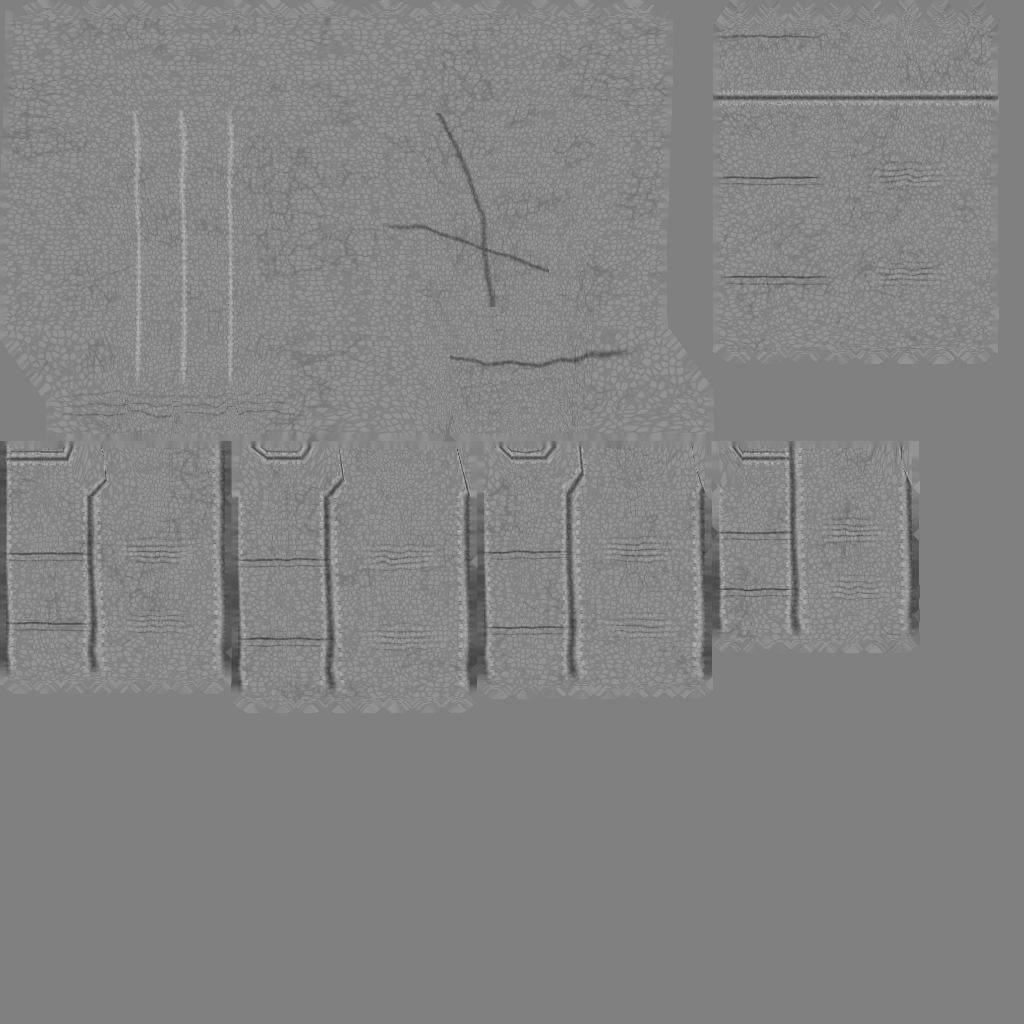
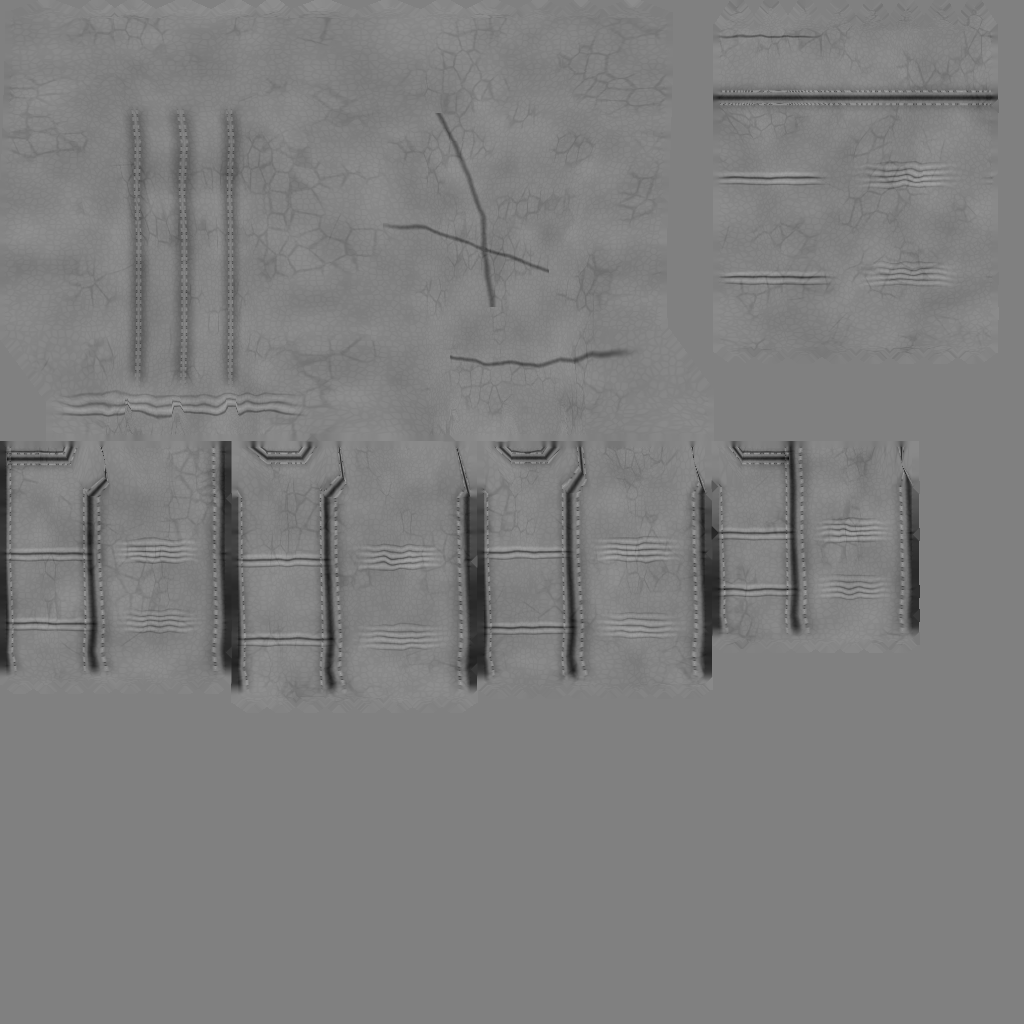
Glove leather: relief to the bracers' level: _glove_height made a mipmapped normal map at load (one tap, vr_glove_relief), deeper stitches, quilted seams, knuckle/joint/palm creases, softer grain; GLOVES.md, ROUND22 note

diff --git a/Misc/quakevr/make_glove_paint.py b/Misc/quakevr/make_glove_paint.py
@@ -30,6 +30,7 @@ PROGS = HERE.parent.parent / 'quakevr/progs'
 SCALE = 2  # texels to the skin's (512: 1.5 a mm) -> 3 a mm
 OUT = PROGS / 'hand_rig_00_00_glove.png'
 OUT_H = PROGS / 'hand_rig_00_00_glove_height.png'
+HEIGHT_MM = 2.5  # the height map's full range (0..255), mm: vr_render.cpp gloveHeightRangeMm (it makes it a normal map)
 
 
 # ---- noise (hashed lattices, deterministic) -------------------------------------------------------------------------
@@ -147,17 +148,20 @@ def sew(pt, d, run, w, groove=True):
     if groove:
         g = band(d, SEAM * 1.3) * w
         pt.shade *= 1 - 0.45 * g
-        pt.height -= 0.35 * g
+        pt.height -= 0.5 * g
         lip = (band(np.abs(d) - SEAM * 1.6, SEAM * 0.9)) * w  # the leather rolled up either side, rubbed
-        pt.height += 0.12 * lip
+        pt.height += 0.2 * lip
         pt.wear = np.maximum(pt.wear, 0.22 * lip)
+        # the panels either side pulled down into the seam over a few mm: padded between the seams, as the bracers'
+        # quilted rows (normalbody.py stitch_row)
+        pt.height -= 0.35 * band(d, 0.45) * w
     th, holes = stitches(pt, d, run, w)
     pt.shade *= 1 - 0.35 * holes
-    pt.height -= 0.12 * holes
-    pt.shade = pt.shade * (1 - th) + 1.45 * th
+    pt.height -= 0.3 * holes
+    pt.shade = pt.shade * (1 - th) + 1.35 * th
     pt.tint = pt.tint * (1 - th[:, None]) + np.array([1.03, 1.0, 0.94]) * th[:, None]
     pt.wear = np.maximum(pt.wear, 0.55 * th)
-    pt.height += 0.22 * th
+    pt.height += 0.45 * th
 
 
 def scuffed(p, patch, base, extra):
@@ -194,18 +198,19 @@ def finger_joints(rig, name, p, n, pt, seed):
         wr = sum(band(dd - c, 0.035) * h for c, h in ((-0.42, 0.5), (-0.24, 0.8), (-0.08, 1.0), (0.08, 0.9), (0.24, 0.6)))
         wr *= back * smooth(1.0, 0.35, np.abs(lateral)) * s
         pt.shade *= 1 - 0.32 * wr
-        pt.height -= 0.22 * wr
-        ridges = sum(band(dd - c, 0.06) for c in (-0.33, -0.16, 0.0, 0.16)) * back * near * s
+        pt.height -= 0.4 * wr
+        ridges = sum(band(dd - c, 0.07) for c in (-0.33, -0.16, 0.0, 0.16)) * back * near * s
         pt.wear = np.maximum(pt.wear, 0.3 * ridges * patch)
-        pt.height += 0.08 * ridges
-        # the palm side's fold: deep, dark, a second fainter one beside it
+        pt.height += 0.25 * ridges  # the leather bunched up between them
+        # the palm side's fold: deep, dark, a second fainter one beside it, the leather puffed either side
         fold = (band(a + 0.02 + 0.03 * wob, 0.05) + 0.5 * band(a - 0.16 + 0.03 * wob, 0.035)) * front
         pt.shade *= 1 - 0.35 * fold
-        pt.height -= 0.35 * fold
+        pt.height -= 0.55 * fold
+        pt.height += 0.2 * (band(a + 0.12 + 0.03 * wob, 0.09) + band(a - 0.08 + 0.03 * wob, 0.07)) * front
     # the palm side's fold at the finger's root (the palm's crease under it)
     root = band(along - 0.12 + 0.04 * wob, 0.05) * (seg == 0) * front
     pt.shade *= 1 - 0.35 * root
-    pt.height -= 0.25 * root
+    pt.height -= 0.45 * root
     # the tip worn all round, more at its very end
     tipness = np.where(seg == 2, smooth(0.45 * lengths[2], 1.0 * lengths[2], along), 0.0)
     pt.wear = np.maximum(pt.wear, tipness * (0.25 + 0.4 * smooth(0.3, 0.8, patch)))
@@ -236,22 +241,25 @@ def palm_marks(rig, p, n, pt, seed):
         pt.shade *= 1 - 0.12 * np.exp(-((d - 0.95) / 0.3) ** 2) * back
     # the leather creased across the back behind the knuckles, as a fist pulls it
     dk = x - knuckles + 0.45 + 0.08 * wob
-    cr = sum(band(dk + c, 0.04) * h for c, h in ((0.0, 1.0), (0.22, 0.7), (0.45, 0.45))) * back
+    cr = sum(band(dk + c, 0.05) * h for c, h in ((0.0, 1.0), (0.22, 0.7), (0.45, 0.45))) * back
     pt.shade *= 1 - 0.25 * cr
-    pt.height -= 0.18 * cr
-    # three stitched points down the back, between the tendons, from the wrist to short of the knuckles
+    pt.height -= 0.4 * cr
+    # the leather bunched up between those creases
+    pt.height += 0.18 * sum(band(dk + c, 0.08) * h for c, h in ((0.11, 1.0), (0.33, 0.6))) * back
+    # three stitched points down the back, between the tendons, from the wrist to short of the knuckles: a raised cord
+    # in a channel, the leather between them padded (as the bracers' quilted rows)
     for uc in (0.27, 0.5, 0.74):
         d = (u - uc) * width
         span = smooth(-3.6, -3.1, x) * smooth(knuckles - 1.0, knuckles - 1.6, x) * back
         ridge = band(d, 0.09) * span
-        pt.height += 0.2 * ridge
+        pt.height += 0.3 * ridge - 0.35 * band(d, 0.5) * span
         pt.shade *= 1 + 0.05 * ridge
         pt.wear = np.maximum(pt.wear, 0.15 * ridge)
         th, holes = stitches(pt, d, x, span, offset=0.075, step=0.2, slant=0.0)
         pt.shade *= 1 - 0.3 * holes
-        pt.shade = pt.shade * (1 - th) + 1.3 * th
+        pt.shade = pt.shade * (1 - th) + 1.2 * th
         pt.wear = np.maximum(pt.wear, 0.4 * th)
-        pt.height += 0.15 * th
+        pt.height += 0.35 * th - 0.25 * holes
     # the palm's folds (as the skin's: the heart line under the fingers, the head line across, the life line round
     # the thumb's ball), the wrist's
     heart = knuckles - 1.7 - 0.5 * np.clip(u - 0.1, 0, 1)
@@ -261,7 +269,7 @@ def palm_marks(rig, p, n, pt, seed):
              + 0.9 * band(u - life_u + 0.01 * wob, 0.025) * (x < 2.0) * (x > -3.3)) * front
     folds = np.clip(folds, 0, 1)
     pt.shade *= 1 - 0.3 * folds
-    pt.height -= 0.3 * folds
+    pt.height -= 0.5 * folds
     # the grip: the pads under the fingers and the heel rubbed (a little paler, grime in between)
     pads = (np.exp(-((x - knuckles + 0.9) / 0.6) ** 2) + np.exp(-((x + 2.6) / 1.0) ** 2) * 0.8) * front
     pt.wear = np.maximum(pt.wear, 0.3 * pads * smooth(0.3, 0.8, patch))
@@ -275,12 +283,13 @@ def grain(p, pt):
     peb = smooth(0.0, 0.4, e)  # 0 in a crevice, 1 on a pebble's rounded top
     pt.shade *= 0.85 + 0.15 * peb
     pt.shade *= 0.97 + 0.06 * tone
-    pt.height += 0.12 * peb
+    pt.height += 0.055 * peb
     e2, _ = worley(p * np.array([1.0, 1.0, 1.6]), 0.55, 23)
     net = 1 - smooth(0.0, 0.18, e2 + 0.04 * value_noise(p, 0.12, 27))
     net *= smooth(-0.1, 0.5, value_noise(p, 0.8, 29))  # in places only
     pt.shade *= 1 - 0.12 * net
-    pt.height -= 0.08 * net
+    pt.height -= 0.12 * net
+    pt.height += 0.12 * fbm(p, 0.9, 43, 2)  # the hide's own soft unevenness
     mot = fbm(p, 1.2, 31, 3)
     pt.shade *= 1 + 0.09 * mot
     pt.tint *= (1 + np.outer(fbm(p, 2.0, 37, 2), [0.03, 0.0, -0.04]))
@@ -376,7 +385,7 @@ def main():
     rgb = np.stack([spread(rgb[..., c], covered, 6) for c in range(3)], -1)
     rgb[~covered & ~(spread(covered * 1.0, covered, 6) > 0)] = 0.5
     wear = np.clip(spread(wear, covered, 6), 0, 1)
-    h = np.clip(0.5 + 0.6 * spread(height, covered, 6), 0, 1)
+    h = np.clip(0.5 + spread(height, covered, 6) / HEIGHT_MM, 0, 1)
     pad = spread(covered * 1.0, covered, 6) > 0
     wear[~pad] = 0
     h[~pad] = 0.5

diff --git a/Quake/vr/vr_render.cpp b/Quake/vr/vr_render.cpp
@@ -458,7 +458,9 @@ extern "C" void VR_AliasInstance(const entity_t* e, const float matrix[16], cons
         (void)view::gloveLook(e, out->glove, out->glovecuff);
         if(out->glove[3] > 0.f) // its painted leather (vr_glove_paint): Glove.w's 4s
         {
-            out->glove[3] += 4.f * static_cast<float>(render::glovePaintFlags(e));
+            const int paint = render::glovePaintFlags(e);
+            out->glove[3] += 4.f * static_cast<float>(paint);
+            out->gloveshell[1] = paint == 2 ? CLAMP(0.f, vr_glove_relief.value, 2.f) : 0.f; // its relief's normal map's strength
         }
     }
     if(out->glow[0] > 3.5f) // an incandescent blade glows on its blade only (vr_hotblade.cpp)
@@ -733,7 +735,7 @@ struct GloveLayer
 {
     bool looked{false};
     gltexture_t* paint{nullptr}; // (null: no painted layer: the shader's leather alone)
-    gltexture_t* height{nullptr}; // (null: none: flat)
+    gltexture_t* height{nullptr}; // its relief, made a normal map (gloveHeightToNormals; null: none: flat)
 };
 struct GloveLayers
 {
@@ -744,9 +746,50 @@ struct GloveLayers
 };
 GloveLayers gloveLayers;
 
-// The texture of the first of these files found (loaded now unless it is already), or null.
+// The relief's height map (_glove_height, make_glove_paint.py): its R the height, 128 flat, 0..255 this many mm; at
+// 1024 x 1024 this many texels a mm (the skin's 1.5 twice). Its slopes are steepened by gloveReliefGain, as the bracers'
+// and pauldrons' baked relief is (normalbody.py, normaltiles.py: their stitches and seams deeper than real ones).
+static constexpr float gloveHeightRangeMm = 2.5f;
+static constexpr float gloveTexelsPerMm = 3.f;
+static constexpr float gloveReliefGain = 2.f;
+
+// A glove's height map (RGBA, as read) made its normal map in place, as normalbake.py height_to_tangent bakes the
+// models': tangent space, x along u, y up the image (green up), RGB the unit normal (z kept: the mips' shorter normals
+// widen the sheen, SpecularAA), A 255. Mipmapped, its far look is the average of its bumps (the shader's old taps of
+// the heights a texel apart lost the slopes on coarser mips). ~4 ms at 1024 x 1024, at each read only.
+void gloveHeightToNormals(byte* rgba, int width, int height)
+{
+    byte* h = static_cast<byte*>(Hunk_AllocNoFill(width * height)); // (freed with the image: the caller's mark)
+    for(int i = 0; i < width * height; i++)
+    {
+        h[i] = rgba[i * 4];
+    }
+    // a step of one level over the two texels of a central difference, as a slope (mm a mm)
+    const float k = gloveReliefGain * gloveHeightRangeMm / 255.f * gloveTexelsPerMm * (static_cast<float>(width) / 1024.f) * 0.5f;
+    for(int y = 0; y < height; y++)
+    {
+        const byte* up = h + q_max(y - 1, 0) * width;
+        const byte* row = h + y * width;
+        const byte* down = h + q_min(y + 1, height - 1) * width;
+        for(int x = 0; x < width; x++)
+        {
+            const float sx = (row[q_min(x + 1, width - 1)] - row[q_max(x - 1, 0)]) * k; // dh/du
+            const float sy = (down[x] - up[x]) * k; // dh down the image: -dh/d(up)
+            const float inv = 1.f / sqrtf(sx * sx + sy * sy + 1.f);
+            byte* out = rgba + (y * width + x) * 4;
+            out[0] = static_cast<byte>((-sx * inv * 0.5f + 0.5f) * 255.f + 0.5f);
+            out[1] = static_cast<byte>((sy * inv * 0.5f + 0.5f) * 255.f + 0.5f);
+            out[2] = static_cast<byte>((inv * 0.5f + 0.5f) * 255.f + 0.5f);
+            out[3] = 255;
+        }
+    }
+}
+
+// The texture of the first of these files found (loaded now unless it is already), or null. The height map
+// (_glove_height) is made a normal map as it loads (gloveHeightToNormals).
 [[nodiscard]] gltexture_t* gloveTexture(int skin, const char* suffix)
 {
+    const bool relief = !q_strcasecmp(suffix, "glove_height");
     for(const int s : {skin, 0})
     {
         char path[MAX_QPATH];
@@ -759,13 +802,32 @@ GloveLayers gloveLayers;
         int width, height;
         enum srcformat format;
         byte* pixels = Image_LoadImage(path, &width, &height, &format);
+        if(pixels && relief && format != SRC_RGBA)
+        {
+            Con_Printf("glove paint: %s is not RGBA as read: no relief\n", path);
+            pixels = nullptr;
+        }
+        const double t0 = Sys_DoubleTime();
+        if(pixels && relief)
+        {
+            gloveHeightToNormals(pixels, width, height);
+        }
+        const double made = (Sys_DoubleTime() - t0) * 1000.0;
         gltexture_t* texture = pixels ? TexMgr_LoadImage(nullptr, path, width, height, format, pixels, path, 0,
-                                            TEXPREF_MIPMAP | TEXPREF_NOPICMIP | TEXPREF_ALPHA)
+                                            TEXPREF_MIPMAP | TEXPREF_NOPICMIP | TEXPREF_ALPHA |
+                                                (relief ? TEXPREF_UNCOMPRESSED : TEXPREF_NONE))
                                       : nullptr;
         Hunk_FreeToLowMark(mark);
         if(texture)
         {
-            Con_DPrintf("glove paint: %s read (%d x %d)\n", path, width, height);
+            if(relief)
+            {
+                Con_DPrintf("glove paint: %s read (%d x %d), its normal map made in %.1f ms\n", path, width, height, made);
+            }
+            else
+            {
+                Con_DPrintf("glove paint: %s read (%d x %d)\n", path, width, height);
+            }
         }
         if(texture || s == 0)
         {

diff --git a/Quake/vr/vr_glsl.h b/Quake/vr/vr_glsl.h
@@ -2933,6 +2933,18 @@ SPECULAR_AA_FUNCTIONS
 "	return min(in_color.rgb, vec3(1.0)) * k * (s * 0.12 + f * 0.05);\n" \
 "}\n" \
 "\n" \
+"// QVR: a glove's painted relief (vr_glove_relief): its normal map (vr_render.cpp gloveHeightToNormals; green up, z kept:\n" \
+"// a mip's averaged normal) on n, in the frame BumpedNormalK uses, but read smooth as its paint is (no retro blocks)\n" \
+"vec3 GloveBump(vec2 uv, vec2 duvdx, vec2 duvdy, vec3 dpdx, vec3 dpdy, vec3 n, float strength)\n" \
+"{\n" \
+"	vec3 r1 = cross(dpdy, n), r2 = cross(n, dpdx);\n" \
+"	vec3 t = r1 * duvdx.x + r2 * duvdy.x, b = r1 * duvdx.y + r2 * duvdy.y;\n" \
+"	t *= inversesqrt(max(dot(t, t), 1e-24));\n" \
+"	b *= inversesqrt(max(dot(b, b), 1e-24));\n" \
+"	vec3 s = textureGrad(GloveHeightTex, uv, duvdx, duvdy).xyz * 2.0 - 1.0;\n" \
+"	return normalize((t * s.x - b * s.y) * strength + n * max(s.z, 0.05));\n" \
+"}\n" \
+"\n" \
 "bool Morph(out vec3 seam)\n" \
 "{\n" \
 "	seam = vec3(0.0);\n" \
@@ -3079,28 +3091,18 @@ QVR_DENT_FUNCTIONS \
 "		{\n" \
 "			vec3 paint = vec3(0.5);\n" \
 "			float wear = 0.0;\n" \
-"			vec2 paintSlope = vec2(0.0);\n" \
 "			if (gpaint > 0.5) // QVR: its painted leather (vr_glove_paint; make_glove_paint.py): RGB its detail times the colour\n" \
-"			{ // (0.5 as it is), A its wear; its relief in place of the mask's seams (the painted ones over them)\n" \
+"			{ // (0.5 as it is), A its wear; its relief (the normal map below) in place of the mask's seams (the painted ones over them)\n" \
 "				vec4 gp = textureGrad(GloveTex, uv, duvdx, duvdy);\n" \
 "				paint = gp.rgb;\n" \
 "				wear = max(gp.a, 0.4 * (1.0 - hem)); // (the hem's edge rubbed too)\n" \
 "				mask.a = mx.a = my.a = 0.5;\n" \
-"				if (gpaint > 1.5)\n" \
-"				{\n" \
-"					vec2 hs = vec2(textureSize(GloveHeightTex, 0));\n" \
-"					float h0 = textureGrad(GloveHeightTex, uv, duvdx, duvdy).r;\n" \
-"					float hx = textureGrad(GloveHeightTex, uv + vec2(1.0 / hs.x, 0.0), duvdx, duvdy).r;\n" \
-"					float hy = textureGrad(GloveHeightTex, uv + vec2(0.0, 1.0 / hs.y), duvdx, duvdy).r;\n" \
-"					paintSlope = 2.0 * vec2(hx - h0, hy - h0) * hs / ts.x; // (GloveLeather's units: a mask texel's)\n" \
-"				}\n" \
 "			}\n" \
 "			// worn: paler, greyer, matte (a black glove's scuffs grey, a brown one's tan)\n" \
 "			float lum = dot(glove.rgb, vec3(0.299, 0.587, 0.114));\n" \
 "			vec3 worn = mix(vec3(lum), glove.rgb, 0.45) * 1.6 + vec3(0.075, 0.068, 0.06);\n" \
 "			leather = mix(glove.rgb, worn, wear) * paint * 2.0;\n" \
 "			leather *= GloveLeather(uv, duvdx, duvdy, ts, mask.a, mx.a, my.a, hem, dhem, gpaint > 0.5, leatherSlope, leatherGloss);\n" \
-"			leatherSlope += paintSlope;\n" \
 "			leatherGloss *= 1.0 - 0.7 * wear;\n" \
 "			leatherCover = cover * skinShare;\n" \
 "		}\n" \
@@ -3127,8 +3129,12 @@ QVR_DENT_FUNCTIONS \
 "	vec3 n = normalize(in_nor);\n" \
 "	float bumpk = instances[in_instance].AO.z; // QVR: its normal map's strength: a made one's LightTweak.w, an authored one's own (vr_normalmap_authored)\n" \
 "	vec3 bumped = bumpk > 0. && (in_bumplight.w > 0. || NumLights > 0u || instances[in_instance].Ambient[0].w > 0.) ? BumpedNormalK(NormalTex, uv, duvdx, duvdy, dpdx, dpdy, n, bumpk) : n;\n" \
-"	if (leatherCover > 0.) // QVR: a glove's leather: the skin's bumps (creases, nails) under it gone, its own relief instead\n" \
-"		bumped = WoundBump(normalize(mix(bumped, n, leatherCover)), leatherSlope * leatherCover, duvdx, duvdy, dpdx, dpdy);\n" \
+"	if (leatherCover > 0.) // QVR: a glove's leather: the skin's bumps (creases, nails) under it gone, its own relief instead:\n" \
+"	{ // its painted relief's normal map (vr_glove_relief; vr_render.cpp gloveHeightToNormals: one tap, mipmapped) and its grain\n" \
+"		float relief = instances[in_instance].GloveShell.y;\n" \
+"		vec3 lb = relief > 0.0 ? GloveBump(uv, duvdx, duvdy, dpdx, dpdy, n, relief) : n;\n" \
+"		bumped = WoundBump(normalize(mix(bumped, lb, leatherCover)), leatherSlope * leatherCover, duvdx, duvdy, dpdx, dpdy);\n" \
+"	}\n" \
 "	if (gloveShell) // QVR: a glove's shell's wall (vr_handrig.cpp gloveShells; its vertices' normals the skin's): lit as\n" \
 "	{ // the side it is (the facet's normal), darker (the leather's cut edge)\n" \
 "		vec3 ng = normalize(cross(dpdx, dpdy));\n" \

diff --git a/Quake/gl_shaders.h b/Quake/gl_shaders.h
@@ -1381,7 +1381,7 @@ NOISE_FUNCTIONS
 "	vec4	GloveCuff; // QVR: ... a bare forearm's cuff: x below this u, from v y, its hem to v z, below v w (zero: none)\n"\
 "	vec4	Dent; // QVR: flesh dents (vr/vr_dents.cpp): x its rows' first in Dents, y their count (0 none), zw xy of its pose's origin in units\n"\
 "	vec4	DentScale; // QVR: ... its pose to units: xyz the scale, w z of the origin\n"\
-"	vec4	GloveShell; // QVR: a glove's shell (vr/vr_handrig.cpp gloveShells, vr_glove_thickness): x its thickness in the model's units (0: none drawn)\n"\
+"	vec4	GloveShell; // QVR: a glove's shell (vr/vr_handrig.cpp gloveShells, vr_glove_thickness): x its thickness in the model's units (0: none drawn); y the painted leather's relief's strength (vr_glove_relief)\n"\
 "	ivec4	Motion; // QVR: temporal AA (vr/vr_temporal.cpp): x its vertices' slot this frame in MotionCur, y last frame's in MotionPrev (-1 none)\n"\
 "};\n"\
 "\n"\
@@ -1606,7 +1606,7 @@ NOISE_FUNCTIONS
 "layout(binding=2) uniform sampler2D NormalTex; // QVR\n"
 "layout(binding=6) uniform sampler2D SkinMaskTex; // QVR: authored skin only\n"
 "layout(binding=7) uniform sampler2D GloveTex; // QVR: a glove's painted leather (vr_glove_paint): RGB its detail, A its wear\n"
-"layout(binding=8) uniform sampler2D GloveHeightTex; // QVR: ... its relief (0.5 flat)\n"
+"layout(binding=8) uniform sampler2D GloveHeightTex; // QVR: ... its relief, made a normal map as it loaded (vr_render.cpp gloveHeightToNormals)\n"
 "\n"
 "#if MODE == " QS_STRINGIFY (ALIASSHADER_NOPERSP) "\n"
 "	layout(location=0) noperspective in vec2 in_texcoord;\n"

diff --git a/Quake/vr/vr_api_render.h b/Quake/vr/vr_api_render.h
@@ -149,7 +149,7 @@ typedef struct vraliasinstance_s
 	float		glovecuff[4]; // ... a bare forearm's cuff in the body's skin: below u x, from v y, its hem to v z, below v w (zero: none)
 	float		dent[4]; // flesh dents (vr_dents.cpp): its rows' first in the dent buffer, their count (0 none), xy of its pose's origin in units
 	float		dentscale[4]; // ... its pose to units: xyz the scale, w z of the origin
-	float		gloveshell[4]; // a glove's shell (vr_handrig.cpp gloveShells, vr_glove_thickness): its thickness in the model's units (0: none drawn)
+	float		gloveshell[4]; // a glove's shell (vr_handrig.cpp gloveShells, vr_glove_thickness): its thickness in the model's units (0: none drawn); [1] its painted leather's relief's strength (vr_glove_relief; 0 none)
 } vraliasinstance_t;
 void VR_AliasDent (const struct entity_s *e, const void *aliashdr, float dent[4], float scale[4]); // instance: its flesh dents (vr_dents.cpp)
 void VR_DentBind (void); // the flesh dents' rows bound for the alias shaders (SSBO 12), the changed ones written first

diff --git a/docs/vr-port/ROUND22.md b/docs/vr-port/ROUND22.md
@@ -12786,3 +12786,39 @@ proper dimensions, AD's look), used held, holstered, dropped and spawned by the 
 - Not done: the lightning gun's magazine (`vr_view.cpp`'s `VLight` mount) isn't drawn on the Plasma Gun; the
   Widowmaker reloads at the hip, so the super shotgun's opening isn't needed. The toolgun's catalogue icons stay AD's
   pickup models.
+
+## Glove leather: relief to the bracers' level (worktree `dequant`, branch `agent/gloveleather`, 2026-10-18)
+
+His note (and Glove depth's open item): the gloves' leather wants the pauldrons' and bracers' detail: stitching along
+the seams, creases at the knuckles, finger joints and palm, a leather grain normal map.
+
+- **Why it read flat.** The painted layer (`make_glove_paint.py`) already had stitches, creases and grain, but its
+  relief was physical (0.1-0.3 mm) and the shader took its slope from three taps of the heights a texel apart: on a
+  coarser mip those taps lose the slope (and at a distance alias into a checkered pattern on the palm). The bracers'
+  and pauldrons' relief is a baked, mipmapped normal map with exaggerated stitches and quilted forms
+  (`normalbody.py stitch_row`, `normaltiles.py`).
+- **Engine.** `_glove_height` is now made a tangent-space normal map as it is read (`vr_render.cpp
+  gloveHeightToNormals`, as `normalbake.py height_to_tangent` bakes the models': x along u, green up, z kept; 0..255 =
+  2.5 mm, 3 texels a mm, slopes x2 as the bracers'; 3.5-3.8 ms at each read, uncompressed, mipmapped). The shader reads
+  it with one tap (`vr_glsl.h GloveBump`: BumpedNormalK's frame, smooth, no retro blocks: the paint is not blocked
+  either) in place of the three height taps; the skin's normal map under the leather is replaced by it, the shader's
+  own fine grain on top as before. Strength: new `vr_glove_relief` (1; 0 flat .. 2; VR Settings > Player Appearance >
+  Gloves > "Leather Relief"), in the instance's `GloveShell.y`. Per frame: 2 texture taps fewer per gloved pixel.
+- **Content** (`make_glove_paint.py`, regenerated; `HEIGHT_MM` 2.5 matches the engine): seams' grooves deeper with the
+  panels either side pulled into them over ~5 mm (padded, as the bracers' quilted rows), stitches raised 0.45 mm with
+  needle holes sunk; the three stitched points down the back a raised cord in a channel; the finger joints' wrinkles
+  and the leather bunched between them, the palm-side folds deeper with puffed leather either side, the creases behind
+  the knuckles with ridges between; the palm's folds deeper; the pebble grain softer, the crease network and a soft
+  unevenness of the hide stronger. Colour and wear as before (the stitches' thread a little less pale: the relief
+  carries them now).
+- **Docs.** `GLOVES.md`: the height's range, the normal map made from it, `vr_glove_relief`.
+
+Tested (headless, vrfiringrange, 1440 eyes, fingerless brown, bracers on; `scratch/gl_shots.sh`): sheets
+`scratch/final_back.png` (back: open, fist, point; before top, after bottom), `scratch/final_palm.png` (palm side),
+`scratch/new5_both.png` (both hands with the bracers), `scratch/new3_zoom.png` (1:1 back, before/after). After: the
+stitched points read as raised cords in channels, the knuckle creases and joints' wrinkles shade, the palm's folds
+show, the grain reads as pebbled leather; the palm's old checkered aliasing is gone. `vr_glove_relief` 0/1,
+`vr_gloves_reload`, full gloves, paint off, e1m2: no errors; the map made again at each read.
+
+For him in VR: the relief's depth (`vr_glove_relief`, 0.5-1.5), the grain's coarseness up close (`grain()` in the
+generator), whether the padded panels between the seams read on the fingers' sides.

diff --git a/docs/vr-port/GLOVES.md b/docs/vr-port/GLOVES.md
@@ -13,7 +13,7 @@ masks, at twice their resolution: 1024 x 1024, about 3 texels a millimetre):
 | File | Channels |
 |---|---|
 | `hand_rig_00_00_glove.png` | **RGB** the leather's detail, *multiplied* with the chosen colour: 128 grey leaves the colour as it is, darker darkens it (creases, grime), lighter lightens it (thread, scratches). A coloured texel shifts the hue (coloured thread). Paint in grey and every glove colour works. **A** the wear: 0 none, 255 worn through: the leather goes paler, greyer and matte there (a black glove's scuffs go grey, a brown one's tan). Knuckles, finger joints, fingertips. |
-| `hand_rig_00_00_glove_height.png` | Greyscale relief: 128 flat, lighter raised, darker sunk (seam grooves, wrinkles, stitches, grain). Only its slope matters: the light picks out the edges. Optional: without it the layer is flat. |
+| `hand_rig_00_00_glove_height.png` | Greyscale relief: 128 flat, lighter raised, darker sunk (seam grooves, wrinkles, stitches, grain); 0..255 spans 2.5 mm. Only its slope matters: the light picks out the edges. The engine makes it a normal map as it reads it (steepened twice, as the bracers' and pauldrons' baked relief is), so edit the heights, never a normal map. Optional: without it the layer is flat. |
 
 Every hand skin (the clean hand and the three bloodied ones, `hand_rig_00..03_00`) uses these. To give one of them
 its own, save a copy as `hand_rig_0N_00_glove.png` (and `_glove_height.png`); it is used for that skin instead.
@@ -21,6 +21,9 @@ Without any `_glove` file the gloves draw the plain procedural leather as before
 
 Keep the alpha channel when you save (PNG RGBA, not premultiplied; most editors show it as transparency: a worn
 texel looks *more opaque*). TGA and JPG load too (same name, other extension; PNG is found first).
+
+How deep the relief shows in the light: `vr_glove_relief` (1; Player Appearance > Gloves > "Leather Relief"; 0 flat,
+up to 2).
 
 What the shader adds on its own regardless: the hem's rolled, rubbed edge round a fingerless glove's finger ends and a
 bare forearm's cuff, a very fine grain for close up, and the sheen. Where a fingerless glove leaves the fingertips bare,
